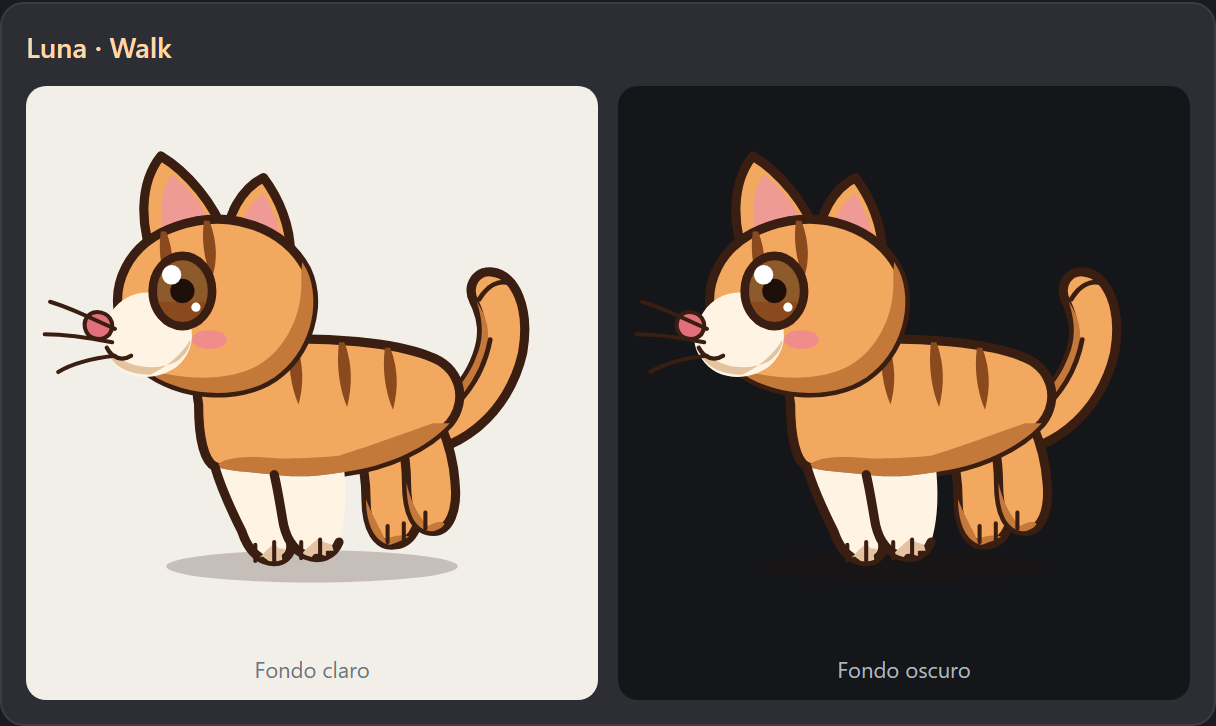
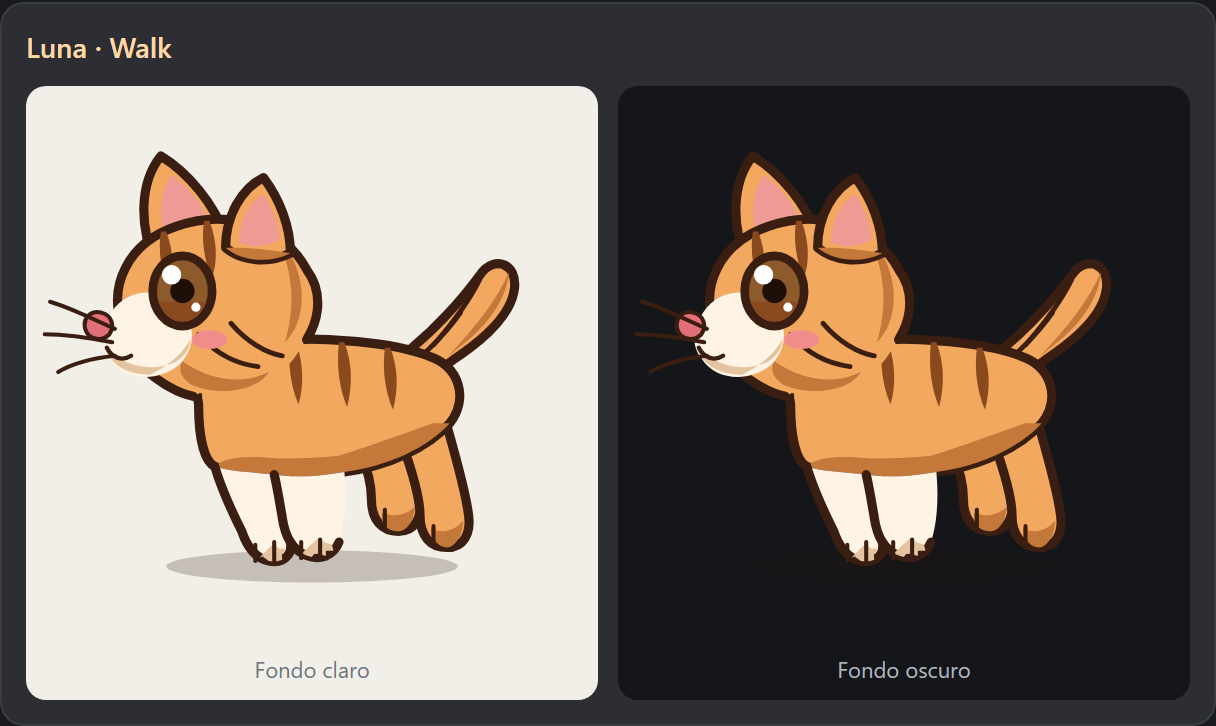
fix(redisenar-el-aspecto-visual-de): hallazgos de qa ronda 1

diff --git a/src/assets/dog.js b/src/assets/dog.js
@@ -112,35 +112,41 @@ const dogIdleSVG = `<svg id="pet-svg" viewBox="0 0 200 200" xmlns="http://www.w3
 const dogWalkSVG = `<svg id="pet-svg" viewBox="0 0 200 200" xmlns="http://www.w3.org/2000/svg">
   <ellipse cx="100" cy="170" rx="76" ry="7" fill="#28140B" opacity="0.22" class="pet-shadow" />
 
-  <g class="anim-wag anim-wag-fast" style="transform-origin: 146px 104px; transform: rotate(0deg);">
+  <g class="anim-wag anim-wag-fast" style="transform-origin: 142px 106px; transform: rotate(0deg);">
     <path class="cel-outline"
-          d="M 146,104 C 142,80 130,62 110,57 C 92,53 79,66 91,80 C 96,86 104,86 110,81 C 120,90 134,101 146,110 C 150,112 149,106 146,104 Z"
+          d="M 138,104 C 139,86 132,68 114,59 C 99,52 85,60 92,75 C 96,84 104,87 111,82 C 120,90 133,100 147,110 C 151,113 149,107 147,104 Z"
           fill="#F7B851" stroke="#3B2416" stroke-width="3.4" stroke-linejoin="round" stroke-linecap="round" />
     <path class="cel-shadow"
-          d="M 110,81 C 120,90 134,101 146,110 C 148,111 148,109 146,108 C 138,99 126,89 112,78 Z"
+    <path class="cel-shadow" d="M 112,80 C 118,86 123,90 129,93 C 131,94 130,90 128,89 C 123,85 118,81 113,76 Z" fill="#C97E22" />
           fill="#C97E22" />
     <path d="M 91,79 C 86,73 88,64 96,59 C 93,64 92,70 95,75 C 96,77 94,80 91,79 Z" fill="#8A4A12" />
     <path d="M 134,88 C 128,78 120,70 110,66" fill="none" stroke="#3B2416" stroke-width="1.8" stroke-linecap="round" />
     <path d="M 104,62 C 97,66 93,72 94,78" fill="none" stroke="#3B2416" stroke-width="1.8" stroke-linecap="round" />
   </g>
 
-  <g class="back-foot-left" style="transform-origin: 124px 104px;">
+  <g class="back-foot-left" style="transform-origin: 128px 108px;">
+    <path class="cel-base"
+          d="M 118,110 C 123,122 126,134 126,143 C 126,151 130,155 136,155 C 142,155 145,150 144,143 C 143,135 140,123 137,108 C 131,104 120,104 118,110 Z"
+          fill="#F7B851" />
     <path class="cel-outline"
-          d="M 122,102 C 133,112 140,127 141,141 C 142,151 139,159 132,160 C 125,161 121,154 121,143 C 121,129 116,113 113,105 C 116,102 119,101 122,102 Z"
+          d="M 121,128 C 124,135 126,140 126,143 C 126,151 130,155 136,155 C 142,155 145,150 144,143 C 143,136 141,127 139,117"
           fill="#F7B851" stroke="#3B2416" stroke-width="3.4" stroke-linejoin="round" stroke-linecap="round" />
     <path class="cel-shadow"
-          d="M 141,141 C 142,151 139,159 132,160 C 135,157 136,151 135,144 C 134,137 132,131 130,126 C 136,130 140,135 141,141 Z"
+          d="M 130,148 C 134,150 139,149 142,146 C 142,151 139,155 136,155 C 132,155 129,152 130,148 Z"
           fill="#C97E22" />
-    <path d="M 130,152 C 130,155 131,157 131,158" fill="none" stroke="#3B2416" stroke-width="1.5" stroke-linecap="round" />
+    <path d="M 131,147 C 131,150 131,153 131,154" fill="none" stroke="#3B2416" stroke-width="1.5" stroke-linecap="round" />
   </g>
-  <g class="back-foot-right" style="transform-origin: 138px 100px;">
+  <g class="back-foot-right" style="transform-origin: 148px 116px;">
+    <path class="cel-base"
+          d="M 140,116 C 145,128 148,140 148,149 C 148,157 152,161 158,161 C 164,161 167,156 166,149 C 165,139 161,127 157,112 C 151,108 142,110 140,116 Z"
+          fill="#F7B851" />
     <path class="cel-outline"
-          d="M 136,98 C 147,109 153,124 154,138 C 155,148 152,156 146,156 C 139,156 136,149 136,138 C 136,124 131,108 128,100 C 131,97 134,96 136,98 Z"
+          d="M 145,133 C 147,140 148,145 148,149 C 148,157 152,161 158,161 C 164,161 167,156 166,149 C 165,140 162,130 159,120"
           fill="#F7B851" stroke="#3B2416" stroke-width="3.4" stroke-linejoin="round" stroke-linecap="round" />
     <path class="cel-shadow"
-          d="M 154,138 C 155,148 152,156 146,156 C 149,153 150,147 149,140 C 148,133 146,127 144,122 C 150,126 153,131 154,138 Z"
+          d="M 152,154 C 156,156 161,155 164,151 C 164,156 161,161 158,161 C 154,161 151,158 152,154 Z"
           fill="#C97E22" />
-    <path d="M 144,148 C 144,151 145,153 145,154" fill="none" stroke="#3B2416" stroke-width="1.5" stroke-linecap="round" />
+    <path d="M 153,153 C 153,156 153,159 153,160" fill="none" stroke="#3B2416" stroke-width="1.5" stroke-linecap="round" />
   </g>
 
   <g class="anim-breath pet-body" style="transform-origin: 106px 112px; transform: translateY(0px) rotate(0deg);">
@@ -192,11 +198,15 @@ const dogWalkSVG = `<svg id="pet-svg" viewBox="0 0 200 200" xmlns="http://www.w3
       <path class="cel-outline" d="M 58.6,36.4 C 60.3,26.8 71.1,20.3 72,15.3 C 72.9,10.4 79,30.1 77.4,39.6 C 76.8,42.6 58.1,39.3 58.6,36.4 Z" fill="#F7B851" stroke="#3B2416" stroke-width="3.2" stroke-linejoin="round" stroke-linecap="round" />
       <path class="cel-shadow" d="M 76.3,30.9 L 76.4,31.1 L 76.4,31.3 L 76.4,31.5 L 76.4,31.7 L 76.5,31.9 L 76.5,32.1 L 76.5,32.3 L 76.5,32.5 L 76.6,32.7 L 76.6,32.9 L 76.6,33.1 L 76.6,33.3 L 76.7,33.5 L 76.7,33.7 L 76.7,33.9 L 76.7,34.1 L 76.7,34.3 L 76.8,34.5 L 76.8,34.7 L 76.8,34.9 L 76.8,35.1 L 76.8,35.3 L 76.8,35.5 L 76.8,35.7 L 76.8,35.9 L 76.9,36.1 L 76.9,36.3 L 76.9,36.5 L 76.9,36.7 L 76.9,36.9 L 76.9,37.1 L 76.9,37.2 L 76.8,37.4 L 76.8,37.6 L 76.8,37.8 L 76.8,38 L 76.8,38.2 L 76.8,38.3 L 76.8,38.5 L 76.8,38.7 L 76.7,38.8 L 76.7,38.9 L 76.7,39 L 76.7,39 L 76.7,39.1 L 76.6,39.1 L 76.6,39.1 L 76.6,39.2 L 76.5,39.2 L 76.5,39.3 L 76.5,39.3 L 76.4,39.3 L 76.4,39.4 L 76.3,39.4 L 76.2,39.5 L 76.2,39.5 L 76.1,39.5 L 76,39.5 L 76,39.6 L 75.9,39.6 L 75.8,39.6 L 75.7,39.6 L 75.7,39.7 L 75.6,39.7 L 75.5,39.7 L 75.4,39.7 L 75.3,39.7 L 75.2,39.8 L 75.1,39.8 L 75,39.8 L 74.9,39.8 L 74.8,39.8 L 74.7,39.8 L 74.6,39.8 L 74.5,39.8 L 74.3,39.8 L 74.2,39.9 L 74.1,39.9 L 74,39.9 L 73.9,39.9 L 73.7,39.9 L 73.6,39.9 L 73.5,39.9 L 73.3,39.9 L 73.2,39.9 L 73.1,39.9 L 72.9,39.8 L 72.8,39.8 L 72.7,39.8 L 72.5,39.8 L 72.4,39.8 L 72.2,39.8 L 72.1,39.8 L 72,39.8 L 71.8,39.8 L 71.7,39.8 L 71.5,39.7 L 71.4,39.7 L 71.2,39.7 L 70.5,35.8 L 70.6,35.8 L 70.7,35.8 L 70.8,35.9 L 70.9,35.9 L 71,35.9 L 71,35.9 L 71.1,36 L 71.2,36 L 71.3,36 L 71.4,36 L 71.5,36.1 L 71.6,36.1 L 71.7,36.1 L 71.7,36.1 L 71.8,36.2 L 71.9,36.2 L 72,36.2 L 72.1,36.2 L 72.2,36.2 L 72.3,36.3 L 72.3,36.3 L 72.4,36.3 L 72.5,36.3 L 72.6,36.3 L 72.7,36.3 L 72.7,36.3 L 72.8,36.3 L 72.9,36.3 L 73,36.4 L 73,36.4 L 73.1,36.4 L 73.2,36.4 L 73.2,36.4 L 73.3,36.4 L 73.4,36.4 L 73.4,36.4 L 73.5,36.4 L 73.5,36.3 L 73.6,36.3 L 73.6,36.3 L 73.7,36.3 L 73.7,36.3 L 73.8,36.3 L 73.8,36.3 L 73.9,36.3 L 73.9,36.2 L 73.9,36.2 L 74,36.2 L 74,36.2 L 74,36.1 L 74,36.1 L 74.1,36.1 L 74.1,36 L 74.1,36 L 74.1,36 L 74.1,35.9 L 74.1,35.9 L 74.1,35.8 L 74.1,35.7 L 74.1,35.6 L 74,35.4 L 74,35.3 L 74,35.1 L 74,35 L 73.9,34.9 L 73.9,34.7 L 73.9,34.6 L 73.8,34.4 L 73.8,34.3 L 73.8,34.1 L 73.7,34 L 73.7,33.9 L 73.6,33.7 L 73.6,33.6 L 73.6,33.5 L 73.6,33.4 L 73.6,33.3 L 73.6,33.2 L 73.6,33.1 L 73.6,33 L 73.6,32.9 L 73.6,32.8 L 73.6,32.7 L 73.6,32.5 L 73.6,32.4 L 73.6,32.3 L 73.6,32.2 L 73.6,32.1 L 73.6,32 L 73.6,31.9 L 73.6,31.7 L 73.6,31.6 L 73.6,31.5 L 73.5,31.4 L 73.5,31.3 L 73.5,31.2 L 73.5,31.1 L 73.5,30.9 L 73.5,30.8 Z" fill="#C97E22" />
     </g>
-    <path class="cel-base" d="M 18,74 C 32,70 42,38 42,44 C 50,28 51.4,37 64,37 C 84.2,37 92,47.5 92,58 C 92,69.6 90,92 84,98 C 76,102 56,88 44,84 C 34,83 23,80 18,74 Z" fill="#F7B851" />
-    <path class="cel-outline" d="M 88,85 C 92,47.5 84.2,37 64,37 C 51.4,37 50,28 42,44 C 42,38 32,70 18,74 C 23,80 34,83 44,84 C 56,88 80,89 88,85" fill="#F7B851" stroke="#3B2416" stroke-width="3.4" stroke-linejoin="round" stroke-linecap="round" />
+    <path class="cel-base" d="M 18,74 C 32,70 42,38 42,44 C 50,28 51.4,37 64,37 C 84.2,37 92,47.5 92,58 C 92,72 90,90 86,96 C 80,102 68,101 56,99 C 48,94 42,88 36,84 C 28,82 22,79 18,74 Z" fill="#F7B851" />
+    <path class="cel-outline" d="M 88,85 C 92,47.5 84.2,37 64,37 C 51.4,37 50,28 42,44 C 42,38 32,70 18,74 C 22,79 28,82 36,84 C 42,88 48,94 53,98 C 55,99 56,99 57,99" fill="#F7B851" stroke="#3B2416" stroke-width="3.4" stroke-linejoin="round" stroke-linecap="round" />
     <path class="cel-shadow" d="M 68.1,86.6 L 68.4,86.6 L 68.7,86.6 L 69,86.6 L 69.3,86.6 L 69.6,86.6 L 69.9,86.6 L 70.2,86.6 L 70.5,86.6 L 70.8,86.6 L 71.1,86.6 L 71.4,86.6 L 71.7,86.6 L 72,86.6 L 72.3,86.6 L 72.6,86.6 L 72.9,86.6 L 73.2,86.6 L 73.5,86.6 L 73.8,86.6 L 74.1,86.6 L 74.4,86.6 L 74.7,86.6 L 75,86.6 L 75.2,86.6 L 75.5,86.6 L 75.8,86.5 L 76.1,86.5 L 76.4,86.5 L 76.6,86.5 L 76.9,86.5 L 77.2,86.5 L 77.5,86.4 L 77.7,86.4 L 78,86.4 L 78.3,86.4 L 78.5,86.4 L 78.8,86.3 L 79.1,86.3 L 79.3,86.3 L 79.6,86.2 L 79.8,86.2 L 80.1,86.2 L 80.3,86.2 L 80.6,86.1 L 80.8,86.1 L 81.1,86.1 L 81.3,86 L 81.5,86 L 81.8,85.9 L 82,85.9 L 82.2,85.9 L 82.5,85.8 L 82.7,85.8 L 82.9,85.7 L 83.1,85.7 L 83.4,85.6 L 83.6,85.6 L 83.8,85.5 L 84,85.5 L 84.2,85.4 L 84.4,85.4 L 84.6,85.3 L 84.8,85.3 L 85,85.2 L 85.2,85.2 L 85.4,85.1 L 85.5,85.1 L 85.7,85 L 85.9,84.9 L 86.1,84.9 L 86.3,84.8 L 86.4,84.7 L 86.6,84.7 L 86.7,84.6 L 86.9,84.5 L 87.1,84.5 L 87.2,84.4 L 81.6,80.2 L 81.5,80.2 L 81.3,80.3 L 81.2,80.3 L 81.1,80.4 L 80.9,80.4 L 80.8,80.5 L 80.6,80.5 L 80.5,80.5 L 80.3,80.6 L 80.1,80.6 L 80,80.6 L 79.8,80.7 L 79.7,80.7 L 79.5,80.7 L 79.3,80.8 L 79.1,80.8 L 79,80.8 L 78.8,80.8 L 78.6,80.8 L 78.4,80.9 L 78.2,80.9 L 78,80.9 L 77.8,80.9 L 77.6,80.9 L 77.4,81 L 77.2,81 L 77,81 L 76.8,81 L 76.6,81 L 76.4,81 L 76.2,81 L 76,81 L 75.8,81 L 75.6,81 L 75.4,81 L 75.1,81 L 74.9,81 L 74.7,81 L 74.5,81 L 74.3,81 L 74,81 L 73.8,81 L 73.6,81 L 73.4,81 L 73.1,80.9 L 72.9,80.9 L 72.7,80.9 L 72.4,80.9 L 72.2,80.9 L 72,80.9 L 71.8,80.8 L 71.5,80.8 L 71.3,80.8 L 71.1,80.8 L 70.8,80.8 L 70.6,80.7 L 70.3,80.7 L 70.1,80.7 L 69.9,80.6 L 69.6,80.6 L 69.4,80.6 L 69.2,80.6 L 68.9,80.5 L 68.7,80.5 L 68.5,80.5 L 68.2,80.4 L 68,80.4 L 67.8,80.4 L 67.5,80.3 L 67.3,80.3 L 67.1,80.3 L 66.8,80.2 L 66.6,80.2 L 66.4,80.1 L 66.1,80.1 L 65.9,80.1 L 65.7,80 Z" fill="#C97E22" />
-    <path d="M 24,73 C 32,73 40,77 46,78 C 54,85 32,80 20,78 Z" fill="#FFF8EC" />
-    <path class="cel-shadow" d="M 46.7,80 L 46.7,80.1 L 46.7,80.1 L 46.7,80.2 L 46.7,80.3 L 46.7,80.3 L 46.7,80.4 L 46.7,80.4 L 46.7,80.5 L 46.6,80.6 L 46.6,80.6 L 46.5,80.7 L 46.5,80.7 L 46.4,80.7 L 46.4,80.8 L 46.3,80.8 L 46.3,80.9 L 46.2,80.9 L 46.1,80.9 L 46,81 L 45.9,81 L 45.9,81 L 45.8,81.1 L 45.7,81.1 L 45.6,81.1 L 45.5,81.1 L 45.3,81.2 L 45.2,81.2 L 45.1,81.2 L 45,81.2 L 44.8,81.2 L 44.7,81.2 L 44.6,81.2 L 44.4,81.2 L 44.3,81.3 L 44.1,81.3 L 44,81.3 L 43.8,81.3 L 43.7,81.3 L 43.5,81.3 L 43.3,81.3 L 43.2,81.3 L 43,81.2 L 42.8,81.2 L 42.6,81.2 L 42.5,81.2 L 42.3,81.2 L 42.1,81.2 L 41.9,81.2 L 41.7,81.2 L 41.5,81.1 L 41.3,81.1 L 41.1,81.1 L 40.9,81.1 L 40.7,81 L 40.5,81 L 40.3,81 L 40.1,81 L 39.8,80.9 L 39.6,80.9 L 39.4,80.9 L 39.2,80.8 L 39,80.8 L 38.7,80.8 L 38.5,80.7 L 38.3,80.7 L 38,80.6 L 37.8,80.6 L 37.6,80.5 L 37.3,80.5 L 37.1,80.4 L 36.9,80.4 L 36.6,80.3 L 36.4,80.3 L 36.2,80.2 L 36,80.2 L 35.7,80.1 L 35.5,80 L 35.3,80 L 35.1,79.9 L 34.8,79.8 L 34.6,79.8 L 34.4,79.7 L 34.2,79.6 L 34,79.5 L 33.9,79.5 L 33.7,79.4 L 33.5,79.4 L 33.3,79.3 L 33.2,79.3 L 33,79.3 L 33.1,78.9 L 33.3,79 L 33.4,79 L 33.5,79 L 33.7,79 L 33.8,79 L 33.9,79.1 L 34.1,79.1 L 34.2,79.1 L 34.3,79.1 L 34.4,79.1 L 34.6,79.2 L 34.7,79.2 L 34.8,79.2 L 35,79.2 L 35.1,79.2 L 35.2,79.3 L 35.3,79.3 L 35.5,79.3 L 35.6,79.3 L 35.7,79.3 L 35.8,79.4 L 36,79.4 L 36.1,79.4 L 36.2,79.4 L 36.3,79.4 L 36.4,79.4 L 36.6,79.4 L 36.7,79.5 L 36.8,79.5 L 36.9,79.5 L 37,79.5 L 37.2,79.5 L 37.4,79.6 L 37.6,79.6 L 37.8,79.7 L 38,79.7 L 38.2,79.8 L 38.4,79.8 L 38.6,79.9 L 38.8,79.9 L 39,80 L 39.1,80 L 39.3,80 L 39.5,80.1 L 39.7,80.1 L 39.9,80.1 L 40,80.1 L 40.2,80.2 L 40.4,80.2 L 40.5,80.2 L 40.7,80.2 L 40.9,80.2 L 41,80.3 L 41.2,80.3 L 41.3,80.3 L 41.5,80.3 L 41.6,80.3 L 41.7,80.3 L 41.9,80.3 L 42,80.3 L 42.1,80.3 L 42.2,80.3 L 42.4,80.3 L 42.5,80.3 L 42.6,80.3 L 42.7,80.3 L 42.8,80.3 L 42.9,80.2 L 43,80.2 L 43.1,80.2 L 43.1,80.2 L 43.2,80.2 L 43.3,80.1 L 43.4,80.1 L 43.4,80.1 L 43.5,80.1 L 43.5,80 L 43.6,80 L 43.6,80 L 43.7,79.9 L 43.7,79.9 L 43.7,79.9 L 43.7,79.8 L 43.8,79.8 L 43.8,79.7 L 43.8,79.7 L 43.8,79.6 L 43.8,79.6 L 43.8,79.5 L 43.8,79.5 Z" fill="#E9CFA8" />
+    <path class="cel-base" d="M 46,84 C 58,92 72,95 86,88 C 82,96 68,100 56,96 C 48,93 44,88 46,84 Z" fill="#F7B851" />
+    <path class="cel-shadow" d="M 52,87 C 60,92 72,95 82,90 C 78,95 68,98 57,94 C 53,92 50,89 52,87 Z" fill="#C97E22" />
+    <path d="M 58,80 C 65,88 73,92 81,93" fill="none" stroke="#3B2416" stroke-width="1.8" stroke-linecap="round" />
+    <path d="M 70,76 C 76,84 83,88 89,89" fill="none" stroke="#3B2416" stroke-width="1.8" stroke-linecap="round" />
+    <path d="M 19,67 C 26,64 33,66 40,71 C 44,74 46,78 45,81 C 39,84 30,83 24,80 C 20,77 17,71 19,67 Z" fill="#FFF8EC" />
+    <path class="cel-shadow" d="M 23,74 C 29,77 35,79 42,78 C 38,81 31,81 26,78 C 23,77 21,75 23,74 Z" fill="#E9CFA8" />
     <path d="M 17,70 C 17,77 20,80 24,80 C 27,80 29,76 29,72 C 25,68.5 20,68.5 17,70 Z" fill="#3A2A22" stroke="#3B2416" stroke-width="1.5" stroke-linejoin="round" />
     <path d="M 28,76 C 33,79 35,82 34,85" fill="none" stroke="#3B2416" stroke-width="1.6" stroke-linecap="round" />
     <g class="anim-blink">

diff --git a/src/assets/cat.js b/src/assets/cat.js
@@ -141,35 +141,40 @@ const catIdleSVG = `<svg id="pet-svg" viewBox="0 0 200 200" xmlns="http://www.w3
 const catWalkSVG = `<svg id="pet-svg" viewBox="0 0 200 200" xmlns="http://www.w3.org/2000/svg">
   <ellipse cx="100" cy="172" rx="54" ry="6" fill="#28140B" opacity="0.22" class="pet-shadow" />
 
-  <g class="anim-wag" style="transform-origin: 138px 122px; transform: rotate(0deg);">
+  <g class="anim-wag" style="transform-origin: 130px 112px; transform: rotate(0deg);">
     <path class="cel-outline"
-          d="M 128,130 C 154,133 173,115 178,93 C 181,76 175,64 167,63 C 161,62 157,68 160,74 C 163,80 164,86 161,94 C 156,108 143,117 130,119 Z"
+          d="M 122,102 C 138,92 152,78 163,63 C 168,57 176,60 175,69 C 174,78 165,87 153,95 C 144,101 138,110 136,120 C 128,118 122,112 122,102 Z"
           fill="#F2A85E" stroke="#3A1E12" stroke-width="3.4" stroke-linejoin="round" stroke-linecap="round" />
     <path class="cel-shadow"
-          d="M 130,119 C 143,117 156,108 161,94 C 164,87 163,80 161,74 C 166,81 167,90 162,99 C 156,111 145,119 132,123 Z"
+          d="M 134,114 C 142,104 149,96 156,88 C 163,80 169,72 173,63 C 172,74 164,84 153,92 C 145,99 138,107 135,115 Z"
           fill="#C4783A" />
-    <path d="M 149,116 C 158,109 164,99 166,88" fill="none" stroke="#3A1E12" stroke-width="1.8" stroke-linecap="round" />
-    <path d="M 162,73 C 165,68 169,66 173,67" fill="none" stroke="#3A1E12" stroke-width="1.8" stroke-linecap="round" />
+    <path d="M 145,90 C 152,82 158,74 162,66" fill="none" stroke="#3A1E12" stroke-width="1.8" stroke-linecap="round" />
+    <path d="M 127,105 C 138,97 148,88 155,78" fill="none" stroke="#3A1E12" stroke-width="1.8" stroke-linecap="round" />
   </g>
 
   <g class="back-foot-left" style="transform-origin: 126px 118px;">
+    <path class="cel-base"
+          d="M 114,114 C 119,126 122,138 122,147 C 122,155 126,159 132,159 C 138,159 141,154 140,147 C 139,139 136,127 133,112 C 127,108 116,108 114,114 Z"
+          fill="#F2A85E" />
     <path class="cel-outline"
-          d="M 122,106 C 133,116 139,131 140,145 C 141,155 138,163 131,164 C 124,165 120,158 120,147 C 120,133 115,117 112,109 C 115,106 119,105 122,106 Z"
+          d="M 118,130 C 121,137 122,143 122,147 C 122,155 126,159 132,159 C 138,159 141,154 140,147 C 139,140 137,131 135,120"
           fill="#F2A85E" stroke="#3A1E12" stroke-width="3.4" stroke-linejoin="round" stroke-linecap="round" />
     <path class="cel-shadow"
-          d="M 120,147 C 120,156 123,163 129,164 C 132,163 134,162 136,161 C 132,160 130,161 127,162 C 126,159 123,155 120,147 Z"
+          d="M 126,152 C 130,154 135,153 138,150 C 138,155 135,159 132,159 C 128,159 125,156 126,152 Z"
           fill="#C4783A" />
-    <path d="M 128,157 C 128,160 128,162 128,163" fill="none" stroke="#3A1E12" stroke-width="1.5" stroke-linecap="round" />
-    <path d="M 134,156 C 134,159 134,161 134,162" fill="none" stroke="#3A1E12" stroke-width="1.5" stroke-linecap="round" />
+    <path d="M 127,151 C 127,154 127,157 127,158" fill="none" stroke="#3A1E12" stroke-width="1.5" stroke-linecap="round" />
   </g>
-  <g class="back-foot-right" style="transform-origin: 140px 114px;">
+  <g class="back-foot-right" style="transform-origin: 140px 118px;">
+    <path class="cel-base"
+          d="M 132,120 C 137,132 140,144 140,153 C 140,161 144,165 150,165 C 156,165 159,160 158,153 C 157,145 153,133 149,117 C 143,113 134,114 132,120 Z"
+          fill="#F2A85E" />
     <path class="cel-outline"
-          d="M 136,102 C 146,112 152,127 153,141 C 154,151 151,159 145,159 C 138,159 135,152 135,141 C 135,127 130,112 127,104 C 130,101 133,100 136,102 Z"
+          d="M 135,131 C 138,140 140,147 140,153 C 140,161 144,165 150,165 C 156,165 159,160 158,153 C 157,145 154,134 150,120"
           fill="#F2A85E" stroke="#3A1E12" stroke-width="3.4" stroke-linejoin="round" stroke-linecap="round" />
     <path class="cel-shadow"
-          d="M 135,141 C 135,152 138,159 145,159 C 148,158 149,157 149,156 C 147,155 145,156 143,157 C 141,155 137,150 135,141 Z"
+          d="M 144,158 C 148,160 153,159 156,155 C 156,160 153,165 150,165 C 147,165 144,162 144,158 Z"
           fill="#C4783A" />
-    <path d="M 142,152 C 142,155 142,157 142,158" fill="none" stroke="#3A1E12" stroke-width="1.5" stroke-linecap="round" />
+    <path d="M 145,157 C 145,160 145,163 145,164" fill="none" stroke="#3A1E12" stroke-width="1.5" stroke-linecap="round" />
   </g>
 
   <g class="anim-breath pet-body" style="transform-origin: 104px 116px; transform: translateY(0px) rotate(0deg);">
@@ -221,6 +226,19 @@ const catWalkSVG = `<svg id="pet-svg" viewBox="0 0 200 200" xmlns="http://www.w3
             d="M 42,60 C 50,61 58,58 68,50 C 60,52 52,56 45,58 Z"
             fill="#C4783A" />
     </g>
+    <path class="cel-base"
+          d="M 30,84 C 24,68 32,52 50,46 C 70,39 90,47 98,62 C 104,75 99,93 86,102 C 73,111 50,109 38,99 C 32,94 30,89 30,84 Z"
+          fill="#F2A85E" />
+    <path class="cel-outline"
+          d="M 98,88 C 103,80 104,70 98,62 C 90,47 70,39 50,46 C 32,52 24,68 30,84 C 30,89 32,94 38,99 C 45,105 51,108 56,109"
+          fill="#F2A85E" stroke="#3A1E12" stroke-width="3.4" stroke-linejoin="round" stroke-linecap="round" />
+    <path class="cel-shadow" d="M 86,51 C 91,53 95,60 96,69 C 97,78 94,85 90,89 C 92,82 93,74 92,67 C 91,59 89,54 86,51 Z" fill="#C4783A" />
+          fill="#C4783A" />
+    <path class="cel-base" d="M 48,94 C 60,102 74,105 86,99 C 82,107 68,111 56,107 C 48,104 44,98 48,94 Z" fill="#F2A85E" />
+    <path class="cel-shadow" d="M 52,96 C 62,103 74,105 84,100 C 80,107 66,109 56,105 C 52,103 50,99 52,96 Z" fill="#C4783A" />
+    <path d="M 58,86 C 64,93 72,97 80,98" fill="none" stroke="#3A1E12" stroke-width="1.8" stroke-linecap="round" />
+    <path d="M 70,82 C 76,89 83,93 89,94" fill="none" stroke="#3A1E12" stroke-width="1.8" stroke-linecap="round" />
+
     <g class="pet-ear pet-ear-right" style="transform-origin: 78px 42px;">
       <path class="cel-outline"
             d="M 68,54 C 68,42 74,32 82,28 C 88,36 92,46 92,56 C 84,60 74,59 68,54 Z"
@@ -231,12 +249,6 @@ const catWalkSVG = `<svg id="pet-svg" viewBox="0 0 200 200" xmlns="http://www.w3
             fill="#C4783A" />
     </g>
 
-    <path class="cel-outline"
-          d="M 30,84 C 24,68 32,52 50,46 C 70,39 90,47 98,62 C 104,75 99,93 86,102 C 73,111 50,109 38,99 C 32,94 30,89 30,84 Z"
-          fill="#F2A85E" stroke="#3A1E12" stroke-width="3.4" stroke-linejoin="round" stroke-linecap="round" />
-    <path class="cel-shadow"
-          d="M 96.36,59.27 L 98,62 L 99,64.49 L 99.74,67.08 L 100.23,69.75 L 100.48,72.47 L 100.49,75.23 L 100.27,78 L 99.81,80.76 L 99.12,83.5 L 98.22,86.19 L 97.09,88.82 L 95.75,91.35 L 94.2,93.78 L 92.45,96.08 L 90.49,98.23 L 88.34,100.21 L 86,102 L 83.45,103.56 L 80.7,104.87 L 77.77,105.92 L 74.7,106.73 L 71.52,107.31 L 68.26,107.64 L 64.95,107.75 L 61.62,107.62 L 58.31,107.28 L 55.03,106.72 L 51.83,105.94 L 48.73,104.95 L 45.77,103.76 L 42.97,102.37 L 40.37,100.78 L 40.37,100.78 L 44.03,100.45 L 47.04,100.94 L 50.01,101.4 L 53,101.77 L 56.01,102.01 L 59.02,102.11 L 62.02,102.06 L 64.97,101.86 L 67.85,101.5 L 70.63,100.99 L 73.28,100.32 L 75.77,99.5 L 78.07,98.54 L 80.15,97.46 L 82.06,96.24 L 83.84,94.85 L 85.54,93.31 L 87.12,91.64 L 88.59,89.86 L 89.94,87.97 L 91.16,85.98 L 92.26,83.91 L 93.22,81.77 L 94.05,79.56 L 94.73,77.31 L 95.28,75.02 L 95.68,72.7 L 95.95,70.34 L 96.07,67.95 L 96.07,65.49 L 96.04,62.99 L 96.36,59.27 Z"
-          fill="#C4783A" />
     <path d="M 46,48 C 49,56 49,63 47,69 C 44,63 43,55 44,48 Z" fill="#8A4A1E" />
     <path d="M 62,44 C 65,52 65,59 63,65 C 60,59 59,51 60,44 Z" fill="#8A4A1E" />
 

diff --git a/src/styles/animations.css b/src/styles/animations.css
@@ -84,7 +84,7 @@
 
 .walking-bob.cat-walk .anim-wag {
   animation: catTailWalk 1.3s infinite ease-in-out !important;
-  transform-origin: 138px 122px !important;
+  transform-origin: 130px 112px !important;
 }
 
 @keyframes catTailWalk {
@@ -104,7 +104,7 @@
 
 .walking-bob.dog-walk .anim-wag-fast {
   animation: dogTailWalk 0.24s infinite ease-in-out !important;
-  transform-origin: 146px 104px !important;
+  transform-origin: 142px 106px !important;
 }
 
 @keyframes dogTailWalk {
@@ -144,7 +144,7 @@
 }
 .cat-walk .back-foot-right {
   animation: catWalkSwingRight 0.65s infinite ease-in-out;
-  transform-origin: 140px 114px;
+  transform-origin: 140px 118px;
 }
 .cat-walk .right-paw {
   animation: catWalkSwingLeft 0.65s infinite ease-in-out;
@@ -155,7 +155,7 @@
 
 .dog-walk .back-foot-left {
   animation: dogWalkSwingLeft 0.48s infinite ease-in-out;
-  transform-origin: 124px 104px;
+  transform-origin: 128px 108px;
 }
 .dog-walk .left-paw {
   animation: dogWalkSwingRight 0.48s infinite ease-in-out;
@@ -163,7 +163,7 @@
 }
 .dog-walk .back-foot-right {
   animation: dogWalkSwingRight 0.48s infinite ease-in-out;
-  transform-origin: 138px 100px;
+  transform-origin: 148px 116px;
 }
 .dog-walk .right-paw {
   animation: dogWalkSwingLeft 0.48s infinite ease-in-out;
